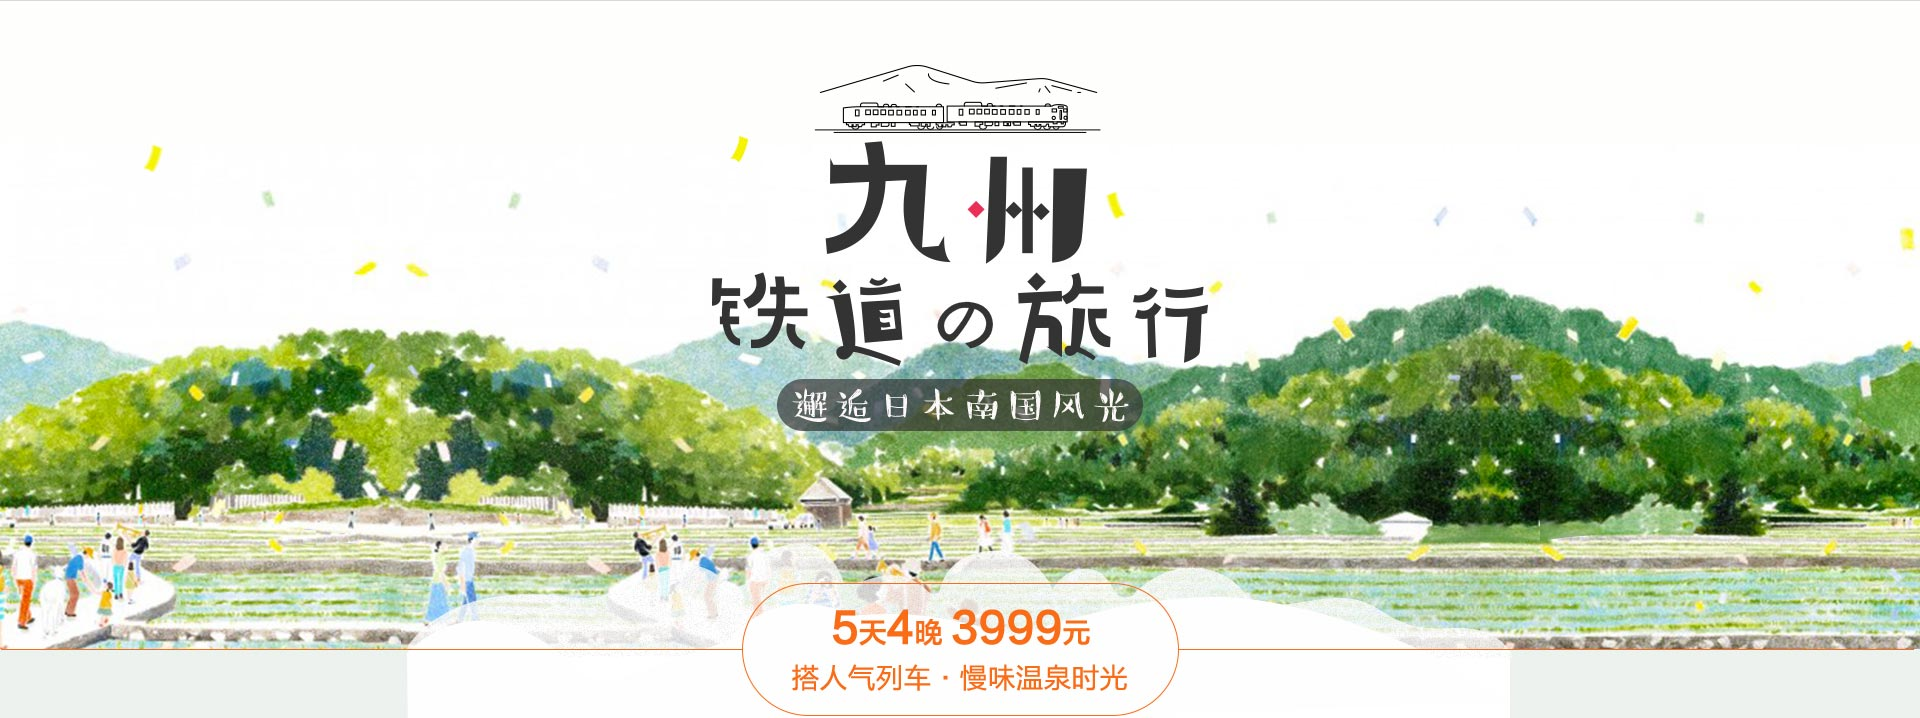
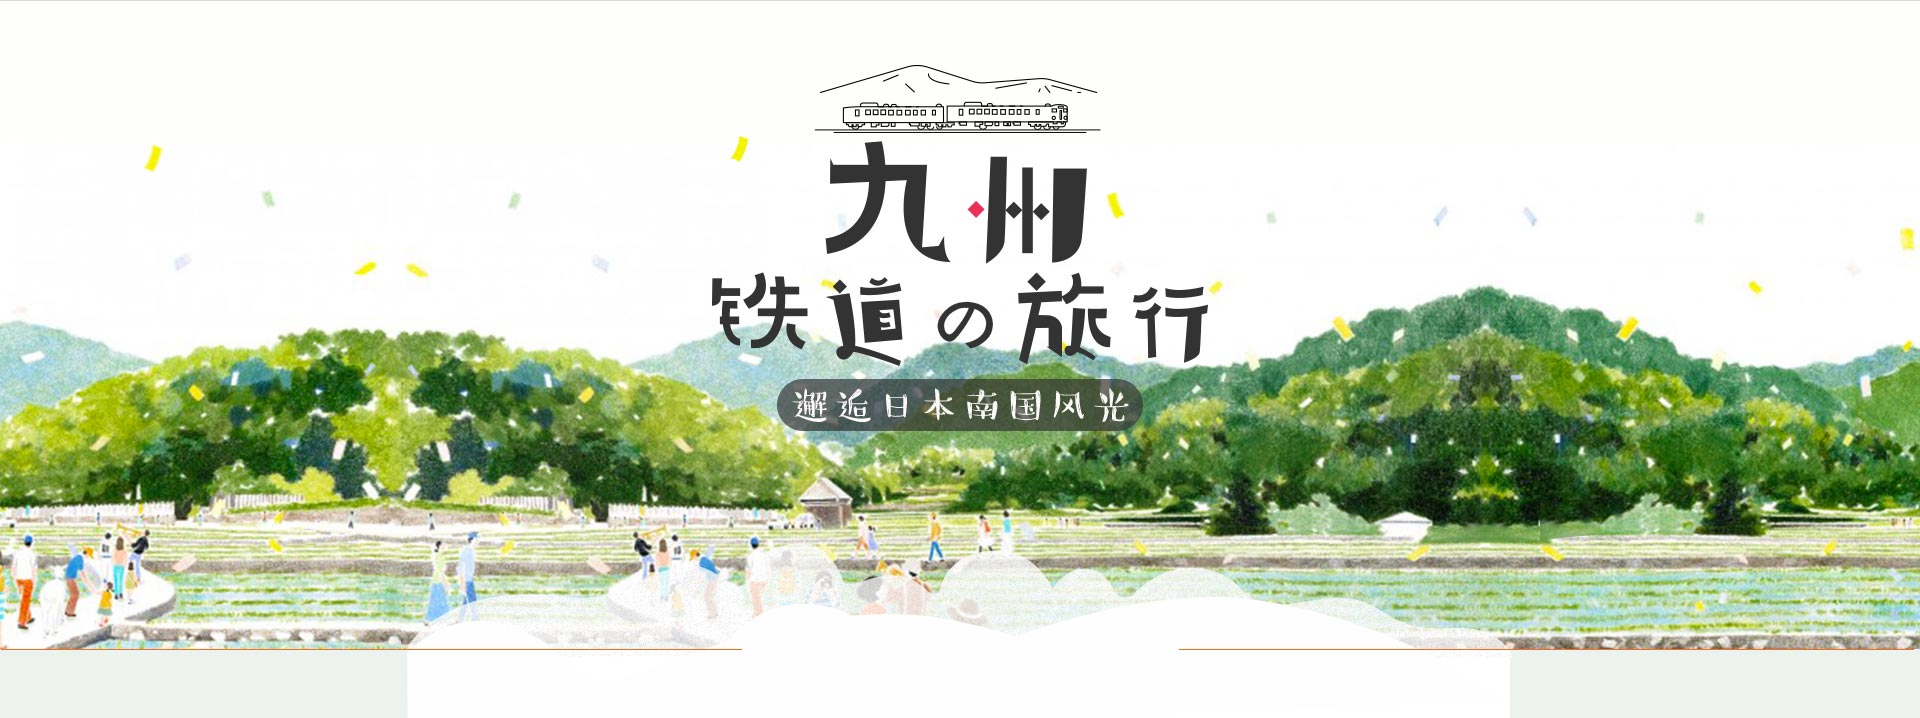
修改专题页

Changed region(s): [[0.4062, 0.8273, 0.5938, 1.0], [0.5625, 0.7967, 0.5938, 0.8273], [0.4062, 0.7967, 0.4375, 0.8273]]

diff --git a/mstatic/special/jiuzhou.html b/mstatic/special/jiuzhou.html
@@ -31,19 +31,18 @@
         <div class="jiuzhouContent">
             <div class="jiuzhouBlock01"></div>
             <div class="jiuzhouChange">
-                <!--<span class="changeImg02"></span>
-                <span class="changeImg03"></span>
-                <div class="img01"></div>
-                <div class="img02"></div>
-                <div class="img03"></div>-->
                 <div class="jiuzhouChangeImg">
                     <div class="leftImg">
                         <span class="changeLeftImgStyle changeLeftImg01"></span>
                         <span class="changeLeftImgStyle changeLeftImg02"></span>
+                        <span class="changeLeftImgStyle changeLeftImg03"></span>
+                        <span class="changeLeftImgStyle changeLeftImg04"></span>
                     </div>
                     <div class="topFloater">
                         <span class="commonFloater hoverFloater01"></span>
                         <span class="commonFloater hoverFloater02"></span>
+                        <span class="commonFloater hoverFloater03"></span>
+                        <span class="commonFloater hoverFloater04"></span>
                     </div>
                     <div class="jiuzhouRightPlaces">
                         <div class="placesName">
@@ -139,43 +138,96 @@
         $(".changeIcon01").hover(
             function () {
                 $(this).addClass("current");
-                $(this).parents(".jiuzhouRightPlaces").siblings(".topFloater").find(".hoverFloater01").animate({
+                $(this).parents(".jiuzhouRightPlaces").siblings(".topFloater").find(".hoverFloater01").stop().animate({
                     opacity:1
                 });
             },
             function () {
                 $(this).removeClass("current");
-                $(this).parents(".jiuzhouRightPlaces").siblings(".topFloater").find(".hoverFloater01").animate({
+                $(this).parents(".jiuzhouRightPlaces").siblings(".topFloater").find(".hoverFloater01").stop().animate({
                     opacity:0
+                });
+            }
+        );
+        $(".changeIcon02").hover(
+            function () {
+                $(this).addClass("current");
+                $(this).parents(".jiuzhouRightPlaces").siblings(".leftImg").find(".changeLeftImg01").stop().animate({
+                    opacity:0
+                });
+                $(this).parents(".jiuzhouRightPlaces").siblings(".topFloater").find(".hoverFloater03").stop().animate({
+                    opacity:1
+                });
+                $(this).parents(".jiuzhouRightPlaces").siblings(".leftImg").find(".changeLeftImg03").stop().animate({
+                    opacity:1
+                },1000);
+            },
+            function () {
+                $(this).removeClass("current");
+                $(this).parents(".jiuzhouRightPlaces").siblings(".leftImg").find(".changeLeftImg03").stop().animate({
+                    opacity:0
+                });
+                $(this).parents(".jiuzhouRightPlaces").siblings(".topFloater").find(".hoverFloater03").stop().animate({
+                    opacity:0
+                });
+                $(this).parents(".jiuzhouRightPlaces").siblings(".leftImg").find(".changeLeftImg01").stop().animate({
+                    opacity:1
                 });
             }
         );
         $(".changeIcon03").hover(
             function () {
                 $(this).addClass("current");
-                $(this).parents(".jiuzhouRightPlaces").siblings(".topFloater").find(".hoverFloater02").animate({
-                    opacity:1
-                });
-                $(this).parents(".jiuzhouRightPlaces").siblings(".leftImg").find(".changeLeftImg01").animate({
+                $(this).parents(".jiuzhouRightPlaces").siblings(".leftImg").find(".changeLeftImg01").stop().animate({
                     opacity:0
                 });
-                $(this).parents(".jiuzhouRightPlaces").siblings(".leftImg").find(".changeLeftImg02").animate({
+                $(this).parents(".jiuzhouRightPlaces").siblings(".topFloater").find(".hoverFloater02").stop().animate({
                     opacity:1
                 });
+                $(this).parents(".jiuzhouRightPlaces").siblings(".leftImg").find(".changeLeftImg02").stop().animate({
+                    opacity:1
+                },1000);
             },
             function () {
                 $(this).removeClass("current");
-                $(this).parents(".jiuzhouRightPlaces").siblings(".topFloater").find(".hoverFloater02").animate({
+                $(this).parents(".jiuzhouRightPlaces").siblings(".leftImg").find(".changeLeftImg02").stop().animate({
                     opacity:0
                 });
-                $(this).parents(".jiuzhouRightPlaces").siblings(".leftImg").find(".changeLeftImg01").animate({
+                $(this).parents(".jiuzhouRightPlaces").siblings(".topFloater").find(".hoverFloater02").stop().animate({
+                    opacity:0
+                });
+                $(this).parents(".jiuzhouRightPlaces").siblings(".leftImg").find(".changeLeftImg01").stop().animate({
                     opacity:1
-                });
-                $(this).parents(".jiuzhouRightPlaces").siblings(".leftImg").find(".changeLeftImg02").animate({
-                    opacity:0
                 });
             }
         );
+        $(".changeIcon04").hover(
+            function () {
+                $(this).addClass("current");
+                $(this).parents(".jiuzhouRightPlaces").siblings(".leftImg").find(".changeLeftImg01").stop().animate({
+                    opacity:0
+                });
+                $(this).parents(".jiuzhouRightPlaces").siblings(".topFloater").find(".hoverFloater04").stop().animate({
+                    opacity:1
+                });
+                $(this).parents(".jiuzhouRightPlaces").siblings(".leftImg").find(".changeLeftImg04").stop().animate({
+                    opacity:1
+                },1000);
+            },
+            function () {
+                $(this).removeClass("current");
+                $(this).parents(".jiuzhouRightPlaces").siblings(".leftImg").find(".changeLeftImg04").stop().animate({
+                    opacity:0
+                });
+                $(this).parents(".jiuzhouRightPlaces").siblings(".topFloater").find(".hoverFloater04").stop().animate({
+                    opacity:0
+                });
+                $(this).parents(".jiuzhouRightPlaces").siblings(".leftImg").find(".changeLeftImg01").stop().animate({
+                    opacity:1
+                });
+            }
+        );
+        
     })
 </script>
 

diff --git a/真旅行后台/订单管理/OP确认单-编辑.html b/真旅行后台/订单管理/OP确认单-编辑.html
@@ -13,7 +13,6 @@
     <link rel="stylesheet" type="text/css" href="../../css/common.css">
     <link rel="stylesheet" type="text/css" href="../../css/client/common.css">
     <link rel="stylesheet" type="text/css" href="../../css/maintain/common.css">
-    <link rel="stylesheet" type="text/css" href="../../css/client/navHeader.css">
     <link rel="stylesheet" type="text/css" href="../../css/client/flight_logo.css">
     <link rel="stylesheet" type="text/css" href="../../css/client/orderInfo.css">
     <link rel="stylesheet" type="text/css" href="../../css/maintain/orderManagement.css">
@@ -32,27 +31,35 @@
 </head>
 <body>
 
-<header>
-    <div class="head clearfix">
-        <div class="logo"></div>
-        <div class="top-nav">
-            <ul class="top-nav-list clearfix">
-                <li class="top-nav-item">
-                    <a href="javascript:;">个人中心</a></li>
-                <li class="top-nav-item current">
-                    <a href="javascript:;">我的订单</a></li>
-                <li class="top-nav-item">
-                    <a href="javascript:;">心愿清单</a></li>
-                <li class="top-nav-item">
-                    <a href="javascript:;">我的钱包</a></li>
-                <li class="top-nav-item">
-                    <a href="javascript:;">网站消息</a></li>
-            </ul>
+<header class="main-header hoveringModel">
+    <div class="stairMenuContent topMenuFonts">
+        <div class="wrap clearfix">
+            <div class="navLeft">
+                <a class="logo" href="/"></a>
+            </div>
+            <div class="headRightOperate">
+                <span class="userContent">Hi，千颂伊</span>
+                <label class="emailContent">
+                    <i class="emailIcon"></i>
+                    <span class="emailFonts">99</span>
+                </label>
+                <a href="javascript:void(0);" class="exitFonts">退出</a>
+            </div>
         </div>
+    </div>
+    <div class="headSecondLevel headBtn clearfix" style="bottom: -48px;">
+        <span class="leftBtn">
+            <a href="javascript:void(0);" class="returnBtn">< 返回</a>
+        </span>
+        <span class="rightBtn">
+            <button class="commonButton orange-f79767Btn">完成确认</button>
+            <button class="commonButton blue-45c8dcButton">保存</button>
+            <button class="commonButton whiteBtn ac-generateOrderWindowBtn">取 消</button>
+        </span>
     </div>
 </header>
 
-<div class="main-container">
+<div class="main-container changeBg" style="margin-top: 110px;">
     <div class="main-wrapper" id="main-wrapper" style="margin-bottom: 20px;">        
         <section class="onLinePayContent">
             <div class="top-border"></div>
@@ -932,11 +939,10 @@
         </section>
     </div>
 
-    <div class="foot clearfix">
-        <span class="copyright">Copyright © 2015 真旅行 All Rights Reserved. 沪ICP备08004120号</span>
-        <span class="service-tel">服务热线：<span class="telnum">400-888-666</span></span>
-    </div>
 </div>
+
+
+<footer>Copyright © 2015 天地行 All Rights Reserved. 沪ICP备08101503号</footer>
 
 
     <!--  经停提示信息模板  -->
@@ -1029,7 +1035,6 @@
              minWidth: 650
             };
             K.options.items = ['forecolor', 'insertorderedlist'];
-            /*K.options.minWidth = 650;*/
              K.create('textarea[name="content"]', {
              afterCreate : function() {
                     this.loadPlugin('autoheight');

diff --git a/mstatic/special/css/webShowSpecial.css b/mstatic/special/css/webShowSpecial.css
@@ -171,12 +171,16 @@ img:focus{
     position: relative;
 }
 .jiuzhouBanner .jiuzhouPositionA{
-    width: 440px;
-    height: 140px;
+    width: 437px;
+    height: 133px;
+    background: url("../images/webShowSpecial/jiuzhouEntranceImg.png") no-repeat;
     position: absolute;
     left: 50%;
-    margin-left: -220px;
+    margin-left: -219px;
     top: 580px;
+}
+.jiuzhouBanner .jiuzhouPositionA:hover{
+    background: url("../images/webShowSpecial/jiuzhouEntranceImgHover.png") no-repeat;
 }
 .jiuzhouChange{
     background-color: #ecf2ee;
@@ -207,6 +211,22 @@ img:focus{
     background: url("../images/webShowSpecial/jiuzhouLeftImg02.png") no-repeat;
     left: 50px;
     top: -20px;
+}
+.jiuzhouChangeImg .changeLeftImg03{
+    opacity: 0;
+    width: 289px;
+    height: 182px;
+    background: url("../images/webShowSpecial/jiuzhouLeftImg03.png") no-repeat;
+    left: 30px;
+    top: -5px;
+}
+.jiuzhouChangeImg .changeLeftImg04{
+    opacity: 0;
+    width: 323px;
+    height: 288px;
+    background: url("../images/webShowSpecial/jiuzhouLeftImg04.png") no-repeat;
+    left: 30px;
+    top: -120px;
 }
 .jiuzhouRightPlaces{
     margin-left: 180px;
@@ -269,38 +289,13 @@ img:focus{
 .hoverFloater02{
     background: url("../images/webShowSpecial/jiuzhouPositionImg02.png") no-repeat;
 }
+.hoverFloater03{
+    background: url("../images/webShowSpecial/jiuzhouPositionImg03.png") no-repeat;
+}
+.hoverFloater04{
+    background: url("../images/webShowSpecial/jiuzhouPositionImg04.png") no-repeat;
+}
 
-
-/*.jiuzhouChange .changeImg02,
-.jiuzhouChange .changeImg03{
-    display: inline-block;
-    width: 50px;
-    height: 50px;
-    position: absolute;
-    top: 380px;
-    left: 50%;
-    cursor: pointer;
-}
-.jiuzhouChange .changeImg02{
-    margin-left: -108px;
-}
-.jiuzhouChange .changeImg03{
-    margin-left: 203px;
-}
-.jiuzhouChange .img01{
-    background: url("../images/webShowSpecial/jiuzhou01.jpg") no-repeat 50% 50%;
-    height: 495px;    
-}
-.jiuzhouChange .img02{
-    background: url("../images/webShowSpecial/jiuzhou01-2.jpg") no-repeat 50% 50%;
-    height: 495px;
-    display: none;
-}
-.jiuzhouChange .img03{
-    background: url("../images/webShowSpecial/jiuzhou01-3.jpg") no-repeat 50% 50%;
-    height: 495px;
-    display: none;
-}*/
 .jiuzhouBlock01{
     background: url("../images/webShowSpecial/jiuzhou01.jpg") no-repeat 50% 50%;
     height: 252px;

diff --git a/css/maintain/orderManagement.css b/css/maintain/orderManagement.css
@@ -1034,6 +1034,9 @@ ul.common-tab > li.rest {
     vertical-align: middle;
     cursor: pointer;
 }
-
+.main-container.changeBg{
+    background: #e5f6fe;
+    background: -webkit-linear-gradient(top, #e5f6fe, #e5f6fe);
+}
 
 /*  OP确认单 end  */
